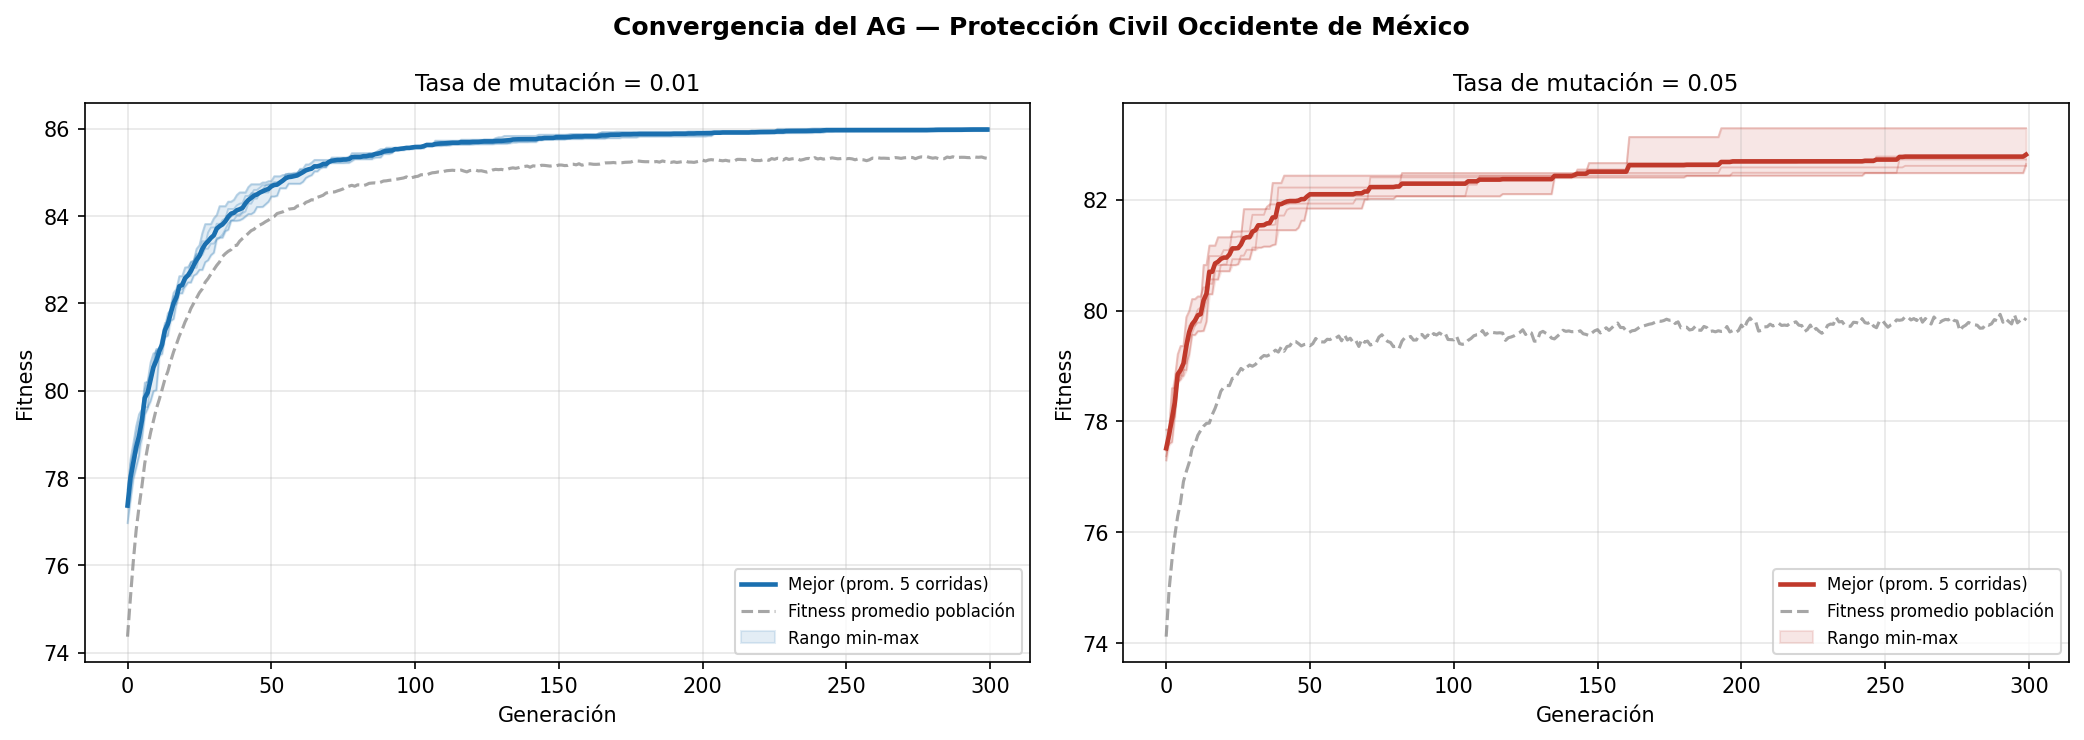
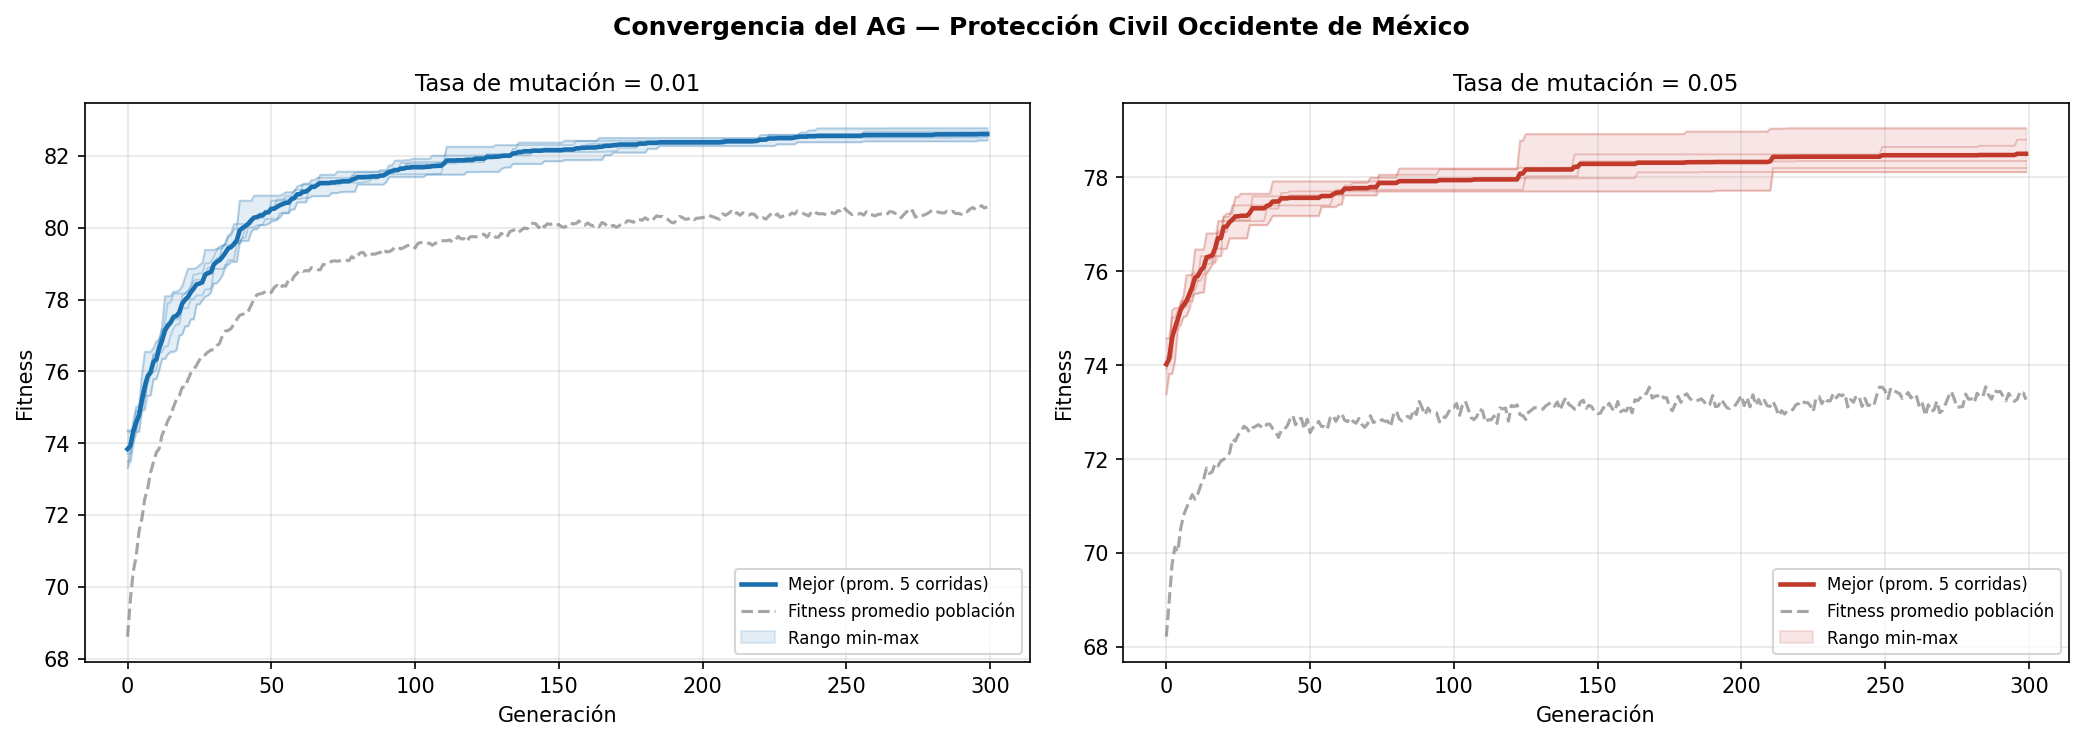
fix: penalización lineal, soluciones factibles, README actualizado

diff --git a/src/02_algoritmo_genetico.py b/src/02_algoritmo_genetico.py
@@ -29,7 +29,7 @@ POP_SIZE   = 200
 N_GEN      = 300
 K_TORNEO   = 5
 P_CRUCE    = 0.85
-LAMBDA     = 500.0
+ALPHA_PEN  = 0.00002   # penalización lineal: ALPHA_PEN * exceso_absoluto_MXN
 N_RUNS     = 5
 MUT_RATES  = [0.01, 0.05]
 SEED_BASE  = 42
@@ -75,8 +75,8 @@ def fitness_fn(cromosoma, beneficios, costos):
     sel    = cromosoma.astype(bool)
     b_tot  = beneficios[sel].sum()
     c_tot  = costos[sel].sum()
-    exceso = max(0.0, (c_tot - PRESUPUESTO) / PRESUPUESTO)
-    return float(b_tot - LAMBDA * exceso**2)
+    exceso = max(0.0, c_tot - PRESUPUESTO)          # exceso absoluto en MXN
+    return float(b_tot - ALPHA_PEN * exceso)
 
 
 # ══════════════════════════════════════════════════════════════════════════════

diff --git a/src/01_exploracion.py b/src/01_exploracion.py
@@ -2,7 +2,7 @@
 01_exploracion.py
 ─────────────────
 Exploración del dataset CENAPRED — Municipios Occidente de México
-Genera: outputs/exploracion_resumen.xlsx  (tablas de frecuencias + estadísticas)
+Genera: outputs/exploracion.csv  (top-10 municipios por beneficio)
 
 Ejecución:
     python src/01_exploracion.py
@@ -15,7 +15,6 @@ from pathlib import Path
 # ── Rutas ──────────────────────────────────────────────────────────────────────
 ROOT   = Path(__file__).resolve().parent.parent
 DATA   = ROOT / "data" / "municipios_occidente_riesgo_CENAPRED.csv"
-OUT_XL = ROOT / "outputs" / "exploracion_resumen.xlsx"
 
 # ── Carga ──────────────────────────────────────────────────────────────────────
 df = pd.read_csv(DATA, encoding="utf-8")

diff --git a/README.md b/README.md
@@ -1,5 +1,175 @@
 # Proyecto de Investigación
 
+# Proyecto de Investigación
+
+## AG — Asignación de Recursos de Protección Civil
+
+## Región Occidente de México (Jalisco, Colima, Michoacán, Nayarit)
+
+Algoritmo Genético aplicado al problema de asignación de presupuesto de protección civil usando datos del CENAPRED.
+
+## Estructura del repositorio
+
+```
+
+ag\_proteccion\_civil/ 
+│
+├── data/ 
+│   └── municipios\_occidente\_riesgo\_CENAPRED.csv 
+│
+├── src/ 
+│   ├── 01\_exploracion.py 
+│   └── 02\_algoritmo\_genetico.py 
+│
+├── outputs/ 
+│    ├── exploracion.csv 
+│    ├── convergencia.png 
+│    ├── mejor\_solucion.csv 
+│    └── tabla\_comparativa.csv 
+│
+├── requirements.txt
+│
+└── README.md
+```
+
+## Instalación
+
+```
+git clone https://github.com/Alejandro-LH/ag_proteccion_civil.git
+cd ag_proteccion_civil
+pip install -r requirements.txt
+```
+
+## Ejecución
+
+```bash
+# 1. Exploración del dataset
+python src/01_exploracion.py
+
+# 2. Algoritmo Genético
+python src/02_algoritmo_genetico.py
+```
+
+## Problema
+
+Dado un presupuesto de **\$10,000,000 MXN**, seleccionar qué municipios de la región occidente de México reciben intervención de protección civil, maximizando la cobertura ponderada de riesgo.
+
+
+| Parámetro                  | Valor              |
+| --------------------------- | ------------------ |
+| Municipios                  | 267                |
+| Presupuesto                 | \$10,000,000 MXN   |
+| Cromosoma                   | Binario (267 bits) |
+| Generaciones                | 300                |
+| Población                  | 200 individuos     |
+| Selección                  | Torneo (k=5)       |
+| Cruzamiento                 | Un punto (p=0.85)  |
+| Mutación comparada         | 0.01 vs 0.05       |
+| Corridas por configuración | 5                  |
+
+## Función de fitness
+
+```
+f(x) = Σᵢ [xᵢ · bᵢ] − 500 · max(0, (Σᵢ xᵢ·cᵢ − P) / P)²
+
+bᵢ = 0.35·score\_sísmica + 0.30·score\_inundación + 0.25·score\_vulnerabilidad + 0.10·sin\_ARM
+```
+
+## Resultados
+
+
+| Tasa mutación | Mejor fitness | Media     | SD        | Municipios | Presupuesto usado | Factible |
+| -------------- | ------------- | --------- | --------- | ---------- | ----------------- | -------- |
+| **0.01**       | **82.77**     | **82.61** | **0.118** | **125**    | **\$10,000,000**  | **Sí**  |
+| 0.05           | 79.05         | 78.50     | 0.362     | 128        | \$10,000,000      | Sí      |
+
+p\_mut = 0.01 obtiene mayor fitness y es 3× más estable entre corridas. Ambas configuraciones respetan el presupuesto.
+
+# Proyecto de Investigación
+
+## AG — Asignación de Recursos de Protección Civil
+
+## Región Occidente de México (Jalisco, Colima, Michoacán, Nayarit)
+
+Algoritmo Genético aplicado al problema de asignación de presupuesto de protección civil usando datos del CENAPRED.
+
+## Estructura del repositorio
+
+```
+
+ag\_proteccion\_civil/ 
+│
+├── data/ 
+│   └── municipios\_occidente\_riesgo\_CENAPRED.csv 
+│
+├── src/ 
+│   ├── 01\_exploracion.py 
+│   └── 02\_algoritmo\_genetico.py 
+│
+├── outputs/ 
+│    ├── exploracion.csv 
+│    ├── convergencia.png 
+│    ├── mejor\_solucion.csv 
+│    └── tabla\_comparativa.csv 
+│
+├── requirements.txt
+│
+└── README.md
+```
+
+## Instalación
+
+```
+git clone https://github.com/Alejandro-LH/ag_proteccion_civil.git
+cd ag_proteccion_civil
+pip install -r requirements.txt
+```
+
+## Ejecución
+
+```bash
+# 1. Exploración del dataset
+python src/01_exploracion.py
+
+# 2. Algoritmo Genético
+python src/02_algoritmo_genetico.py
+```
+
+## Problema
+
+Dado un presupuesto de **\$10,000,000 MXN**, seleccionar qué municipios de la región occidente de México reciben intervención de protección civil, maximizando la cobertura ponderada de riesgo.
+
+
+| Parámetro                  | Valor              |
+| --------------------------- | ------------------ |
+| Municipios                  | 267                |
+| Presupuesto                 | \$10,000,000 MXN   |
+| Cromosoma                   | Binario (267 bits) |
+| Generaciones                | 300                |
+| Población                  | 200 individuos     |
+| Selección                  | Torneo (k=5)       |
+| Cruzamiento                 | Un punto (p=0.85)  |
+| Mutación comparada         | 0.01 vs 0.05       |
+| Corridas por configuración | 5                  |
+
+## Función de fitness
+
+```
+f(x) = Σᵢ [xᵢ · bᵢ] − 500 · max(0, (Σᵢ xᵢ·cᵢ − P) / P)²
+
+bᵢ = 0.35·score\_sísmica + 0.30·score\_inundación + 0.25·score\_vulnerabilidad + 0.10·sin\_ARM
+```
+
+## Resultados
+
+
+| Tasa mutación | Mejor fitness | Media     | SD        | Municipios |
+| -------------- | ------------- | --------- | --------- | ---------- |
+| **0.01**       | **86.01**     | **85.98** | **0.024** | **134**    |
+| 0.05           | 83.29         | 82.81     | 0.247     | 134        |
+
+p\_mut = 0.01 obtiene mayor fitness y es 10x más estable entre corridas.
+
 ## AG — Asignación de Recursos de Protección Civil
 
 ## Región Occidente de México (Jalisco, Colima, Michoacán, Nayarit)